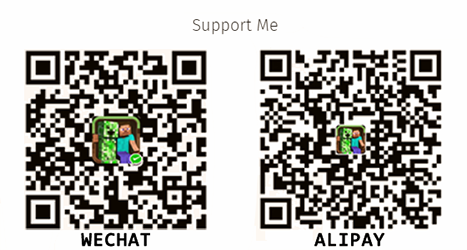
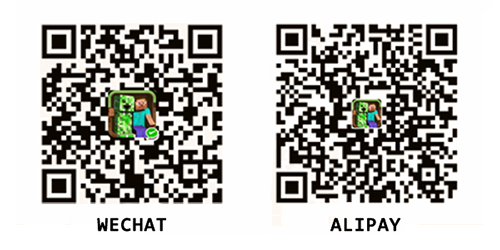
support me

diff --git a/_layouts/home.html b/_layouts/home.html
@@ -42,7 +42,11 @@ layout: compress
                         </a>
                     </h3>
                     <hr class="hr-line">
-                    <img src="{{ site.pay }}">
+                    <h3 class="title">
+                        <a class="btn zoombtn" href="{{ site.url }}/support">
+                        Support Me
+                        </a>
+                    </h3>
             </div>
         </div>
     </header>

diff --git a/support/index.md b/support/index.md
@@ -1,0 +1,10 @@
+---
+layout: page
+title: Support Me
+tags: [support]
+date: 2019-07-12
+comments: false
+---
+
+![](https://raw.githubusercontent.com/KaoriZh/KaoriZh.github.io/master/assets/img/pay.png)
+
